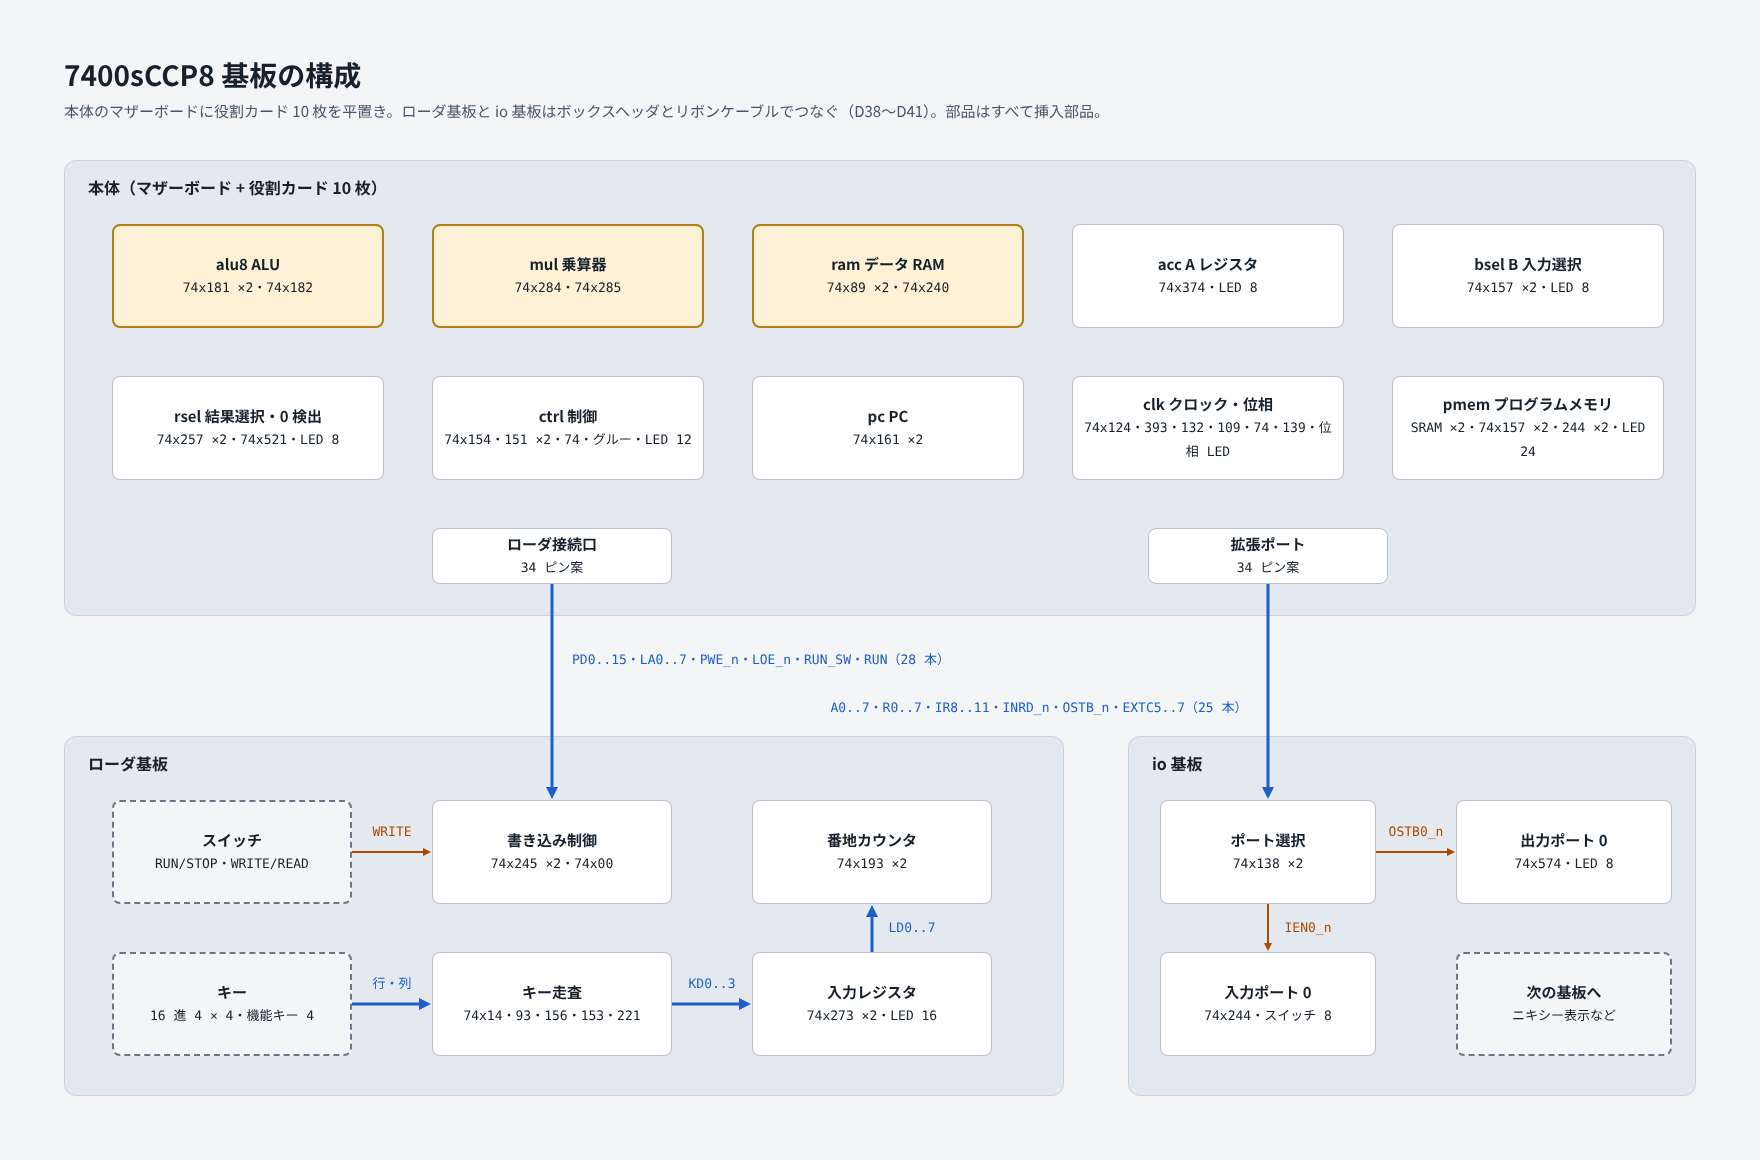
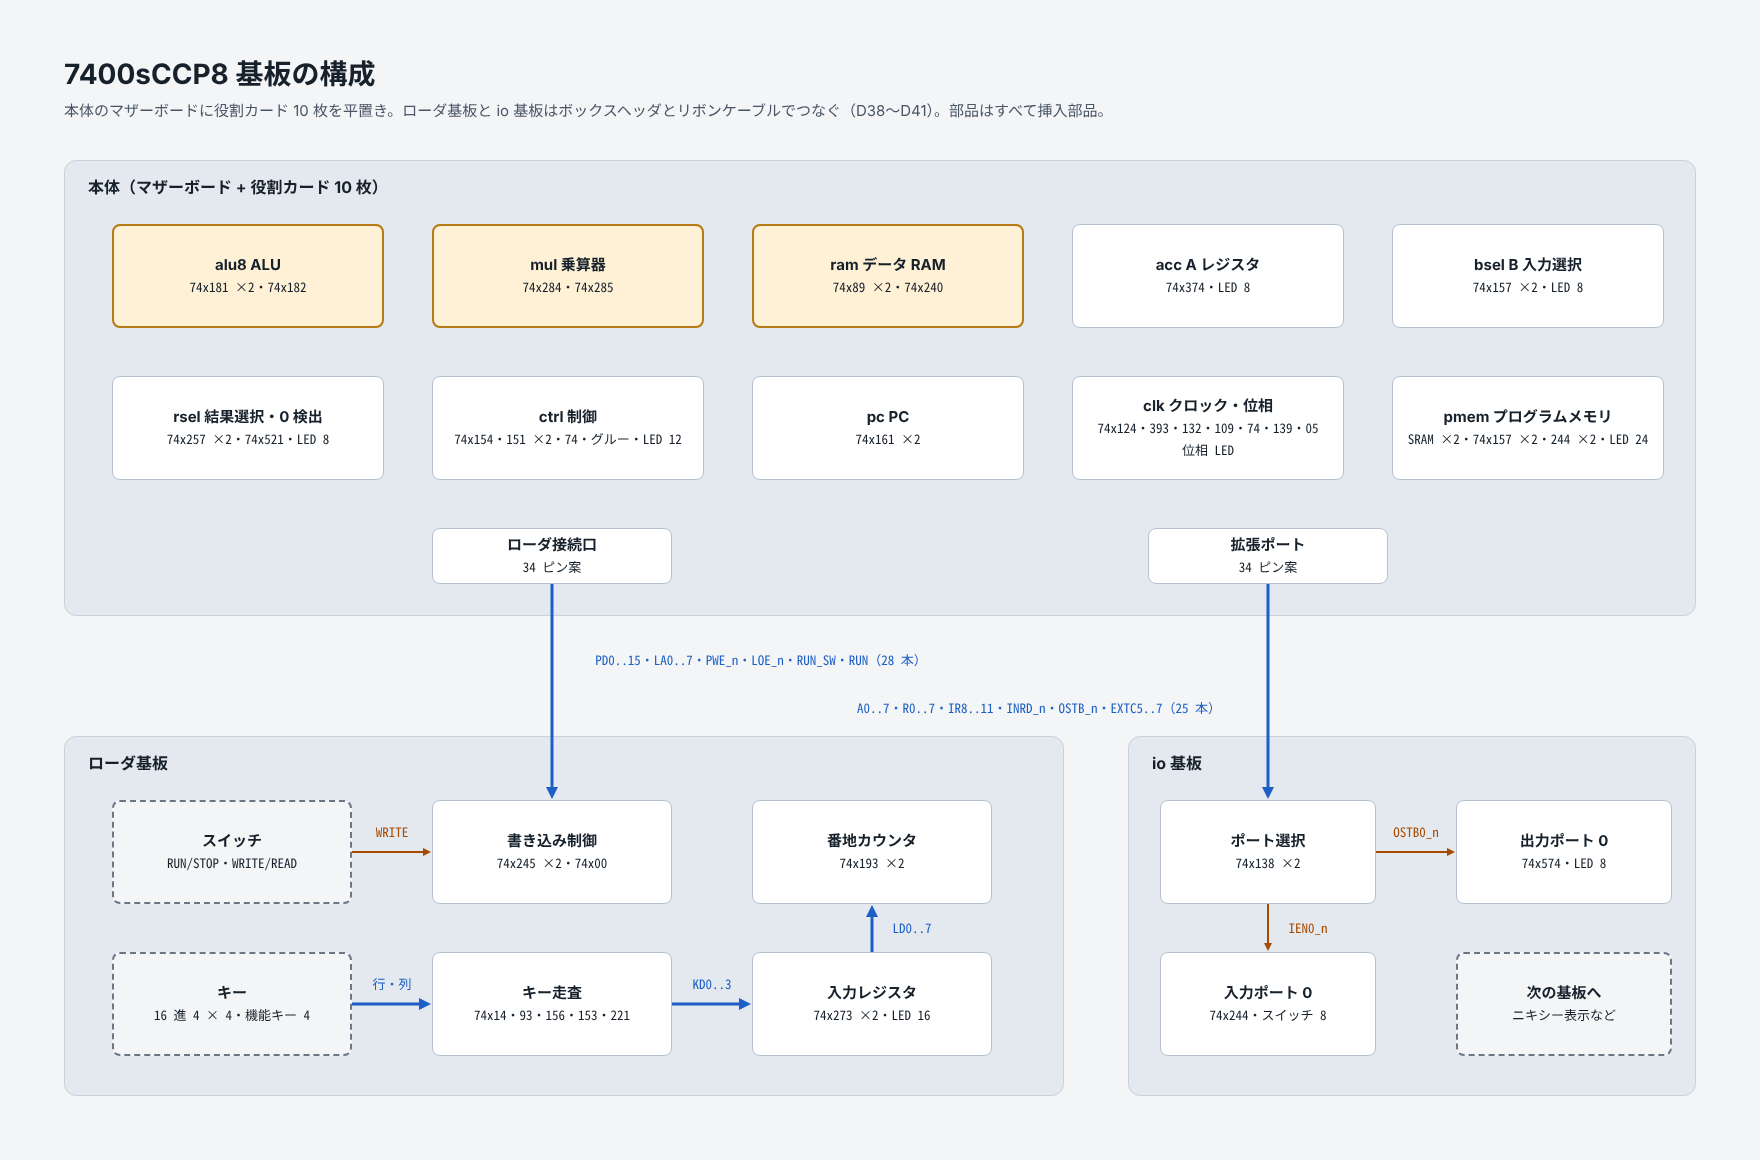
清書図の位相 LED・LED 表示・基板構成を D29 の改訂に合わせて書き出し直す
- Claude Design のキャンバスの Phase・Leds・Boards を直した: 位相 LED は T1 赤・T2 黄（赤 + 緑）・T3 緑、赤 = Q1・緑 = Q2 でデコードを通さず、駆動は clk カードの LED-PH（74x05）。clk カードの部品に 74x05 を追記
- arch_phase.png・arch_leds.png・arch_boards.png を書き出し直し、images/README.md の書き出し日の注記を更新

Claude-Session: https://claude.ai/code/session_018GigKTna1Xo37TVzW5nMpR

diff --git a/docs/design/images/README.md b/docs/design/images/README.md
@@ -14,4 +14,4 @@
 | `arch_boards.png` | 基板の構成（本体・ローダ基板・io 基板と接続口） | `SYSTEM.md` 7.1 節 |
 | `arch_leds.png` | LED 表示の一覧 | `SYSTEM.md` 7.3 節、D39 |
 
-書き出し: 2026-11-23。`hw/system.json` v0.3（ブロック 52・信号 64・LED 85）に対応。
+書き出し: 2026-11-23。`hw/system.json` v0.3（ブロック 53・信号 64・LED 85）に対応。`arch_phase.png`・`arch_leds.png`・`arch_boards.png` は D29 の改訂（位相 LED を Q1 = 赤・Q2 = 緑で点け、T2 黄・T3 緑。駆動は LED-PH）に合わせて同日に書き出し直した。
